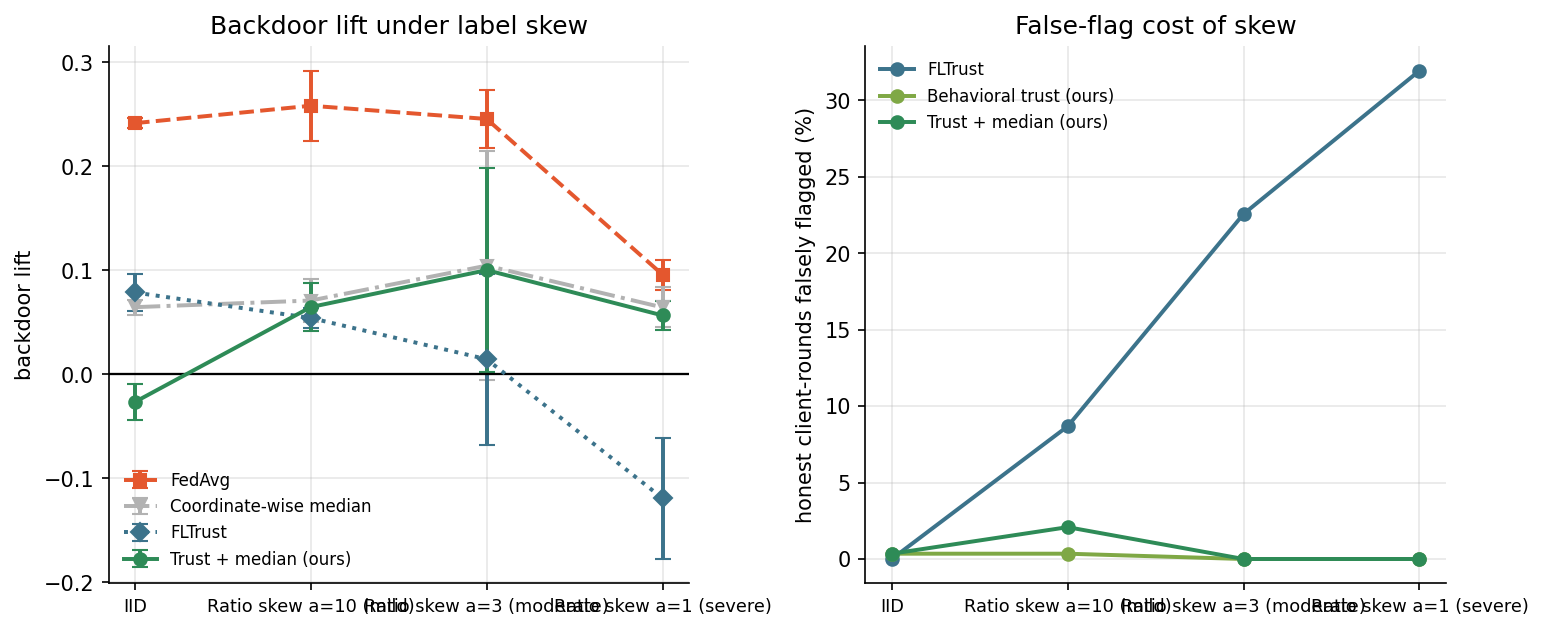
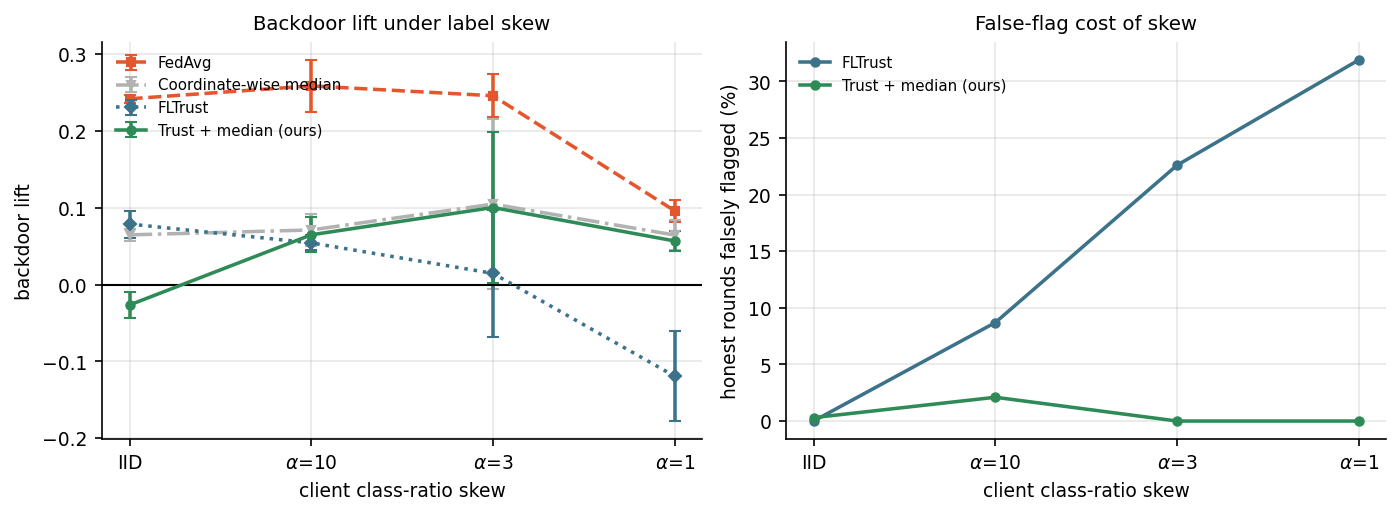
week12: fix two overflowing tables and cut the paper back from 16 pages
Compiled-PDF defects, both real:

- Table XV (cost) overflowed its column and printed rows on top of each
  other. The multicolumn scaling block was the cause. Scaling numbers are
  already in Fig. 10 and in the prose, so the table now carries only the
  headline two-row comparison.
- Table XIV (ceiling) was six numeric columns wide in a single-column
  float and spilled into the neighbouring column. Dropped the balanced
  accuracy column (still in the exported CSV) and shortened the model
  names.
- Fig. 4 (non-IID) and Fig. 9 (ceiling) had unreadable, overlapping
  x-axis labels. Both redrawn by replot.py, which rebuilds them from the
  exported CSVs rather than re-running the experiments, so the plotted
  values are provably identical to the tables.

Length: 10 figures and 15 tables down to 6 and 14. Nothing the review
asked for is removed; what went is redundancy.

- Dropped three figures whose own table already carries the same
  numbers: round-progression, trigger generalization, and the defense
  sensitivity sweep. Dropped the adaptive-attacker figure for the same
  reason.
- The dead-zone diagnosis table folds into two sentences of prose; the
  numbers remain in noniid_tau_diagnosis.csv.
- The non-IID table loses its clean-accuracy column and the alpha=1
  block, both of which the text already said were not used to rank
  rules. Both remain in the exported CSV.
- Tightened the two longest passages in the baseline comparison.
[…]

diff --git a/weeks/week12-paper/main.tex b/weeks/week12-paper/main.tex
@@ -402,28 +402,19 @@ Full vs.\ inflation    & $0.7142$ & $0.5546$ & $0.6114$ & $-0.0253$ \\
 \end{tabular}
 \end{table}
 
-\begin{figure}[!t]
-\centering
-\includegraphics[width=3.4in]{figures/fig_backdoor_and_trust_rounds.png}
-\caption{Backdoor progression and trust attribution over federated rounds (mean of 3 seeds, bands $\pm 1$ std). Left: backdoor success rate per case; the attacked runs stay pinned high while the defended run tracks the honest baseline from round three onward. Right: the aggregation trust assigned to the compromised clients ($U_9$, $U_{10}$) versus the honest clients; the coordinator separates the two groups within the first round and holds the compromised clients near zero trust thereafter.}
-\label{fig:rounds}
-\end{figure}
-
-Fig.~\ref{fig:rounds} shows the same result over training: the attacked runs hold the backdoor open round after round while the defended run tracks the honest baseline, and the mechanism is visible in the right panel, where the coordinator drives the compromised clients to near-zero trust within the first round.
-
 \subsection{Comparison With Published Baselines}
 \label{subsec:benchmark}
 An internal ablation shows which of our own layers contributes, but it cannot show that the result is worth having over an existing defense. Table~\ref{tab:benchmark} and Fig.~\ref{fig:baselines} therefore run every baseline the review asked for on the identical data split, attack, seeds and metrics: FedAvg, accuracy-weighted FedAvg, coordinate-wise median, trimmed mean, Krum, Multi-Krum, FLTrust~\cite{cao2021fltrust}, and both of our own variants. Nothing is quoted from another paper. Every row is one execution of one pipeline, so the comparison isolates the aggregation rule rather than the experimental setup, and the honest and attack rows reproduce their Table~\ref{tab:ablation} counterparts to within run-to-run variation.
 
 Three results matter, and the second is not favorable to us.
 
-\textit{The attack defeats the undefended and the naively weighted systems.} FedAvg leaves $+0.2415$ of lift and accuracy-weighted FedAvg $+0.3036$, confirming that weighting by a self-reported metric is worse than not weighting at all. Both also lose spoofing recall badly ($0.3641$ and $0.3524$ against an honest $0.5292$), because the poisoned updates degrade the detector as well as installing the backdoor.
+\textit{The attack defeats the undefended and the naively weighted systems.} FedAvg leaves $+0.2415$ of lift and accuracy-weighted FedAvg $+0.3036$: weighting by a self-reported metric is worse than not weighting at all. Both also lose spoofing recall badly ($0.3641$, $0.3524$ against an honest $0.5292$), because the poisoned updates degrade the detector as well as installing the backdoor.
 
-\textit{Multi-Krum is a genuinely competitive baseline under these conditions, and we do not claim otherwise.} It reaches $+0.0061 \pm 0.0041$ lift, which is statistically indistinguishable from our behavioral trust alone at $+0.0039 \pm 0.0047$, and it does so at $1.4$~ms of server time against our $38.0$~ms. Any claim that a behavioral probe is necessary to stop this attack in this setting would be contradicted by our own table. What the full defense adds over Multi-Krum is a nominal further reduction to $-0.0265$ and the best retained utility of any rule tested (recall $0.5560$, F1 $0.6087$, both above the honest baseline's $0.5292$ and $0.5944$), but at three seeds we do not claim that lift difference is resolved.
+\textit{Multi-Krum is a genuinely competitive baseline here, and we do not claim otherwise.} At $+0.0061 \pm 0.0041$ it is statistically indistinguishable from our behavioral trust alone ($+0.0039 \pm 0.0047$), at $1.4$~ms of server time against our $38.0$~ms. Any claim that a behavioral probe is \emph{necessary} to stop this attack in this setting would be contradicted by our own table. The full defense adds a nominal reduction to $-0.0265$ and the best retained utility of any rule tested (recall $0.5560$, F1 $0.6087$, both above the honest baseline), but at three seeds we do not claim that lift difference is resolved.
 
 The case for behavioral trust therefore does not rest on the IID headline number. It rests on three properties Table~\ref{tab:benchmark} makes visible. First, Krum and Multi-Krum must be told $f$, the number of compromised clients, and trimmed mean must be told how much to trim; a real coordinator does not know these. Section~\ref{subsec:fcount} varies the true attacker count against baselines configured for $f=2$ and shows what that assumption costs. Second, the geometric rules produce a selection, not a per-client judgment, so they cannot say \emph{which} aircraft to ground; our trust vector attributes the attack to $U_9$ and $U_{10}$ specifically. Third, Section~\ref{subsec:noniid} shows what happens to each rule when clients stop being identically distributed.
 
-\textit{FLTrust, the closest prior root-of-trust defense, does not close the attack here.} It removes about two-thirds of it ($+0.0787 \pm 0.0176$) but leaves a clear residual, and its clean accuracy ($0.6962$) and recall ($0.4687$) fall \emph{below} the honest no-attack baseline, because rescaling every update to the server update's norm throttles honest clients along with attackers. It is also the most expensive rule tested at $204.4$~ms per round, roughly five times ours, since it trains a server model on the root set every round. The mechanism behind its residual is visible in its trust: it assigns the compromised clients $0.0390$, about $39\%$ of uniform, and flags them in only $84.7\%$ of client-rounds. Only $40\%$ of each attacker's spoofed rows are poisoned, so most of its gradient is ordinary learning that agrees with the server's direction, and the backdoor occupies a small subspace of a $3{,}329$-parameter update. A cosine similarity taken over the whole parameter vector is a global statistic that a localized blind spot barely rotates. The behavioral probe does not measure direction at all: it measures what the model \emph{does} on the slice where a backdoored model must differ, and separates the groups completely (attacker trust $0.0001$, detection $100\%$).
+\textit{FLTrust, the closest prior root-of-trust defense, does not close the attack here.} It removes about two-thirds ($+0.0787 \pm 0.0176$) but leaves a clear residual, and its clean accuracy ($0.6962$) and recall ($0.4687$) fall \emph{below} the honest no-attack baseline, because rescaling every update to the server update's norm throttles honest clients along with attackers. It is also the most expensive rule tested, $204.4$~ms per round against our $38.6$, since it trains a server model every round. Its residual is explained by its own trust values: it assigns the compromised clients $0.0390$, about $39\%$ of uniform, and flags them in only $84.7\%$ of client-rounds. Only $40\%$ of each attacker's spoofed rows are poisoned, so most of its gradient is ordinary learning that agrees with the server's direction, and the backdoor occupies a small subspace of a $3{,}329$-parameter update; a cosine similarity over the whole vector is a global statistic that a localized blind spot barely rotates. The behavioral probe instead measures what the model \emph{does} on the slice where a backdoored model must differ, and separates the groups completely (attacker trust $0.0001$, detection $100\%$).
 
 \begin{table*}[!t]
 \renewcommand{\arraystretch}{1.25}
@@ -470,80 +461,48 @@ We therefore use the review's second suggested option, \emph{unequal benign/spoo
 
 \textit{The result.} Table~\ref{tab:noniid} and Fig.~\ref{fig:noniid} show that under IID data the trust layer separates the cohort completely: attacker trust $0.0001$, detection $100\%$. Under even mild skew it stops working. Attacker trust rises to $0.0942$ and then $0.1023$, which is uniform weight to three decimal places, and detection falls to $8.3\%$ and then $0\%$. Trust-only aggregation returns $+0.2374$ and $+0.2482$ of lift, statistically indistinguishable from undefended FedAvg's $+0.2583$ and $+0.2455$ under the same partitions. In other words, under label skew the behavioral probe contributes nothing.
 
-\textit{Why.} Suspicion is a deficit below the cohort median measured in cohort median-absolute-deviation units (Eq.~\ref{eq:susp}). Under IID the honest cohort is tight, $\mathrm{MAD}_f$ is small, and a backdoored client's deficit spans many MADs, easily clearing the dead-zone $\tau = 2$. Under skew, honest clients legitimately disagree on the probe slices, $\mathrm{MAD}_f$ inflates, and the same absolute deficit becomes a fraction of one MAD. The attacker hides inside the honest cohort's variance. Table~\ref{tab:tau} tests this directly by lowering $\tau$: detection is partially recovered, from $8.3\%$ to $38.9\%$ at $\alpha = 10$ and from $0\%$ to $15.3\%$ at $\alpha = 3$, which confirms the mechanism. But it is only partial, it never approaches the IID figure, and it costs $11.8\%$ and $7.6\%$ of honest client-rounds in false flags. Under IID the same change is pure loss: detection is already $100\%$ and the false-flag rate rises from $0.3\%$ to $6.3\%$. No single dead-zone is right for both regimes, and no dead-zone we tested restores the IID behavior under skew. The limitation is therefore in the robust scaling itself, not only in the choice of threshold.
+\textit{Why.} Suspicion is a deficit below the cohort median measured in cohort median-absolute-deviation units (Eq.~\ref{eq:susp}). Under IID the honest cohort is tight, $\mathrm{MAD}_f$ is small, and a backdoored client's deficit spans many MADs, easily clearing the dead-zone $\tau = 2$. Under skew, honest clients legitimately disagree on the probe slices, $\mathrm{MAD}_f$ inflates, and the same absolute deficit becomes a fraction of one MAD. The attacker hides inside the honest cohort's variance. Lowering the dead-zone tests this directly (\texttt{noniid\_tau\_diagnosis.csv}). Going from $\tau=2$ to $\tau=0.5$ recovers detection from $8.3\%$ to $38.9\%$ at $\alpha = 10$ and from $0\%$ to $15.3\%$ at $\alpha = 3$, confirming the mechanism. But the recovery is partial, never approaches the IID figure, and costs $11.8\%$ and $7.6\%$ of honest client-rounds in false flags. Under IID the same change is pure loss: detection is already $100\%$ and false flags rise from $0.3\%$ to $6.3\%$. No single dead-zone is right for both regimes, and no dead-zone we tested restores the IID behavior under skew. The limitation is therefore in the robust scaling itself, not only in the choice of threshold.
 
 \textit{What still works, and what that implies.} The full defense degrades far more gracefully than trust alone, to $+0.0647$ and $+0.1002$, but Table~\ref{tab:noniid} shows why: those figures track coordinate-wise median alone ($+0.0710$ and $+0.1046$) almost exactly. Under skew the median layer is carrying the defense. That is a direct, empirical answer to the review's third comment, and it is developed in Section~\ref{subsec:mediannec}. FLTrust degrades more gracefully on lift ($+0.0542$, $+0.0146$) but at a steep and rising cost in honest false flags ($8.7\%$, $22.6\%$, and $31.9\%$ at severe skew), which is the same failure mode from the opposite direction: it keeps reacting, but increasingly to the wrong clients.
 
-At the most severe level tested ($\alpha = 1$) the base detector has itself degraded to $0.232$ honest recall and $0.903$ honest BSR, so lift again has little headroom and we do not use that row to rank defenses. It is reported for completeness and because it marks where this federated configuration stops functioning at all, which is consistent with the ceiling study of Section~\ref{subsec:ceiling}.
+A fourth level ($\alpha = 1$) was also run and is in the artifact. There the base detector has itself degraded to $0.232$ honest recall and $0.903$ honest BSR, so lift again has little headroom and it cannot rank defenses; it marks where this federated configuration stops functioning at all, consistent with Section~\ref{subsec:ceiling}.
 
 \begin{table*}[!t]
 \renewcommand{\arraystretch}{1.2}
-\caption{Non-IID Sweep Over Client Class-Ratio Skew (mean $\pm$ std, $n=3$). Every Quantity the Review Requested Is Reported. Uniform Trust Is $0.100$. Rules Without a per-Client Weight Have No Detection or False-Flag Rate. The $\alpha=1$ Block Is Reported for Completeness but Not Used to Rank Rules, Because Its Honest Baseline Has Already Degraded to $0.232$ Recall.}
+\caption{Non-IID Sweep Over Client Class-Ratio Skew (mean $\pm$ std, $n=3$). Uniform Trust Is $0.100$. Rules Without a per-Client Weight Have No Detection or False-Flag Rate. Clean Accuracy, and the $\alpha=1$ Condition Whose Honest Baseline Has Already Degraded to $0.232$ Recall, Are in the Exported CSV.}
 \label{tab:noniid}
 \centering
 \footnotesize
 \setlength{\tabcolsep}{3.5pt}
-\begin{tabular}{@{}ll cccc cc cc@{}}
+\begin{tabular}{@{}ll ccc cc cc@{}}
 \toprule
-\textbf{Condition} & \textbf{Method} & \textbf{Clean} & \textbf{Recall} & \textbf{BSR} & \textbf{Lift} &
+\textbf{Condition} & \textbf{Method} & \textbf{Recall} & \textbf{BSR} & \textbf{Lift} &
 \textbf{Detect} & \textbf{False-Flag} & \textbf{Atk trust} & \textbf{Hon trust} \\
 \midrule
-IID & Honest FedAvg (no attack) & $0.7112$ & $0.5292$ & $0.6367$ & $+0.0000$ & --- & --- & --- & --- \\
-    & FedAvg (attacked)         & $0.6932$ & $0.3641$ & $0.8782$ & $+0.2415$ & --- & --- & --- & --- \\
-    & Coordinate-wise median    & $0.7101$ & $0.5008$ & $0.7013$ & $+0.0646$ & --- & --- & --- & --- \\
-    & FLTrust                   & $0.6962$ & $0.4687$ & $0.7154$ & $+0.0787$ & $84.7\%$ & $0.0\%$ & $0.0390$ & $0.1152$ \\
-    & Behavioral trust (ours)   & $0.7112$ & $0.5307$ & $0.6406$ & $+0.0039$ & $100\%$ & $0.3\%$ & $0.0001$ & $0.1250$ \\
-    & Trust + median (ours)     & $0.7143$ & $0.5560$ & $0.6101$ & $-0.0265$ & $100\%$ & $0.3\%$ & $0.0001$ & $0.1250$ \\
+IID & Honest FedAvg (no attack) & $0.5292$ & $0.6367$ & $+0.0000$ & --- & --- & --- & --- \\
+    & FedAvg (attacked)         & $0.3641$ & $0.8782$ & $+0.2415$ & --- & --- & --- & --- \\
+    & Coordinate-wise median    & $0.5008$ & $0.7013$ & $+0.0646$ & --- & --- & --- & --- \\
+    & FLTrust                   & $0.4687$ & $0.7154$ & $+0.0787$ & $84.7\%$ & $0.0\%$ & $0.0390$ & $0.1152$ \\
+    & Behavioral trust (ours)   & $0.5307$ & $0.6406$ & $+0.0039$ & $100\%$ & $0.3\%$ & $0.0001$ & $0.1250$ \\
+    & Trust + median (ours)     & $0.5560$ & $0.6101$ & $-0.0265$ & $100\%$ & $0.3\%$ & $0.0001$ & $0.1250$ \\
 \midrule
-Skew      & Honest FedAvg (no attack) & $0.6998$ & $0.4937$ & $0.6788$ & $+0.0000$ & --- & --- & --- & --- \\
-$\alpha{=}10$ & FedAvg (attacked)     & $0.6868$ & $0.3461$ & $0.9370$ & $+0.2583$ & --- & --- & --- & --- \\
-(mild)    & Coordinate-wise median    & $0.7035$ & $0.4487$ & $0.7498$ & $+0.0710$ & --- & --- & --- & --- \\
-          & FLTrust                   & $0.6919$ & $0.4639$ & $0.7329$ & $+0.0542$ & $65.3\%$ & $8.7\%$ & $0.0429$ & $0.1143$ \\
-          & Behavioral trust (ours)   & $0.6895$ & $0.3758$ & $0.9162$ & $+0.2374$ & $0.0\%$ & $0.3\%$ & $0.0950$ & $0.1013$ \\
-          & Trust + median (ours)     & $0.7035$ & $0.4555$ & $0.7435$ & $+0.0647$ & $8.3\%$  & $2.1\%$ & $0.0942$ & $0.1014$ \\
+Skew      & Honest FedAvg (no attack) & $0.4937$ & $0.6788$ & $+0.0000$ & --- & --- & --- & --- \\
+$\alpha{=}10$ & FedAvg (attacked)     & $0.3461$ & $0.9370$ & $+0.2583$ & --- & --- & --- & --- \\
+(mild)    & Coordinate-wise median    & $0.4487$ & $0.7498$ & $+0.0710$ & --- & --- & --- & --- \\
+          & FLTrust                   & $0.4639$ & $0.7329$ & $+0.0542$ & $65.3\%$ & $8.7\%$ & $0.0429$ & $0.1143$ \\
+          & Behavioral trust (ours)   & $0.3758$ & $0.9162$ & $+0.2374$ & $0.0\%$ & $0.3\%$ & $0.0950$ & $0.1013$ \\
+          & Trust + median (ours)     & $0.4555$ & $0.7435$ & $+0.0647$ & $8.3\%$  & $2.1\%$ & $0.0942$ & $0.1014$ \\
 \midrule
-Skew      & Honest FedAvg (no attack) & $0.6903$ & $0.4446$ & $0.7388$ & $+0.0000$ & --- & --- & --- & --- \\
-$\alpha{=}3$ & FedAvg (attacked)      & $0.6733$ & $0.2983$ & $0.9843$ & $+0.2455$ & --- & --- & --- & --- \\
-(moderate) & Coordinate-wise median   & $0.6897$ & $0.3609$ & $0.8434$ & $+0.1046$ & --- & --- & --- & --- \\
-          & FLTrust                   & $0.6880$ & $0.4468$ & $0.7534$ & $+0.0146$ & $59.7\%$ & $22.6\%$ & $0.0434$ & $0.1141$ \\
-          & Behavioral trust (ours)   & $0.6739$ & $0.2979$ & $0.9870$ & $+0.2482$ & $0.0\%$ & $0.0\%$ & $0.1025$ & $0.0994$ \\
-          & Trust + median (ours)     & $0.6897$ & $0.3618$ & $0.8390$ & $+0.1002$ & $0.0\%$ & $0.0\%$ & $0.1023$ & $0.0994$ \\
-\midrule
-Skew      & Honest FedAvg (no attack) & $0.6473$ & $0.2320$ & $0.9027$ & $+0.0000$ & --- & --- & --- & --- \\
-$\alpha{=}1$ & FedAvg (attacked)      & $0.6354$ & $0.1195$ & $0.9986$ & $+0.0959$ & --- & --- & --- & --- \\
-(severe,  & Coordinate-wise median    & $0.6455$ & $0.1428$ & $0.9671$ & $+0.0644$ & --- & --- & --- & --- \\
-baseline  & FLTrust                   & $0.6635$ & $0.4325$ & $0.7836$ & $-0.1191$ & $66.7\%$ & $31.9\%$ & $0.0401$ & $0.1150$ \\
-degraded) & Behavioral trust (ours)   & $0.6389$ & $0.1256$ & $0.9980$ & $+0.0953$ & $0.0\%$ & $0.0\%$ & $0.1054$ & $0.0987$ \\
-          & Trust + median (ours)     & $0.6495$ & $0.1580$ & $0.9594$ & $+0.0567$ & $0.0\%$ & $0.0\%$ & $0.1060$ & $0.0985$ \\
+Skew      & Honest FedAvg (no attack) & $0.4446$ & $0.7388$ & $+0.0000$ & --- & --- & --- & --- \\
+$\alpha{=}3$ & FedAvg (attacked)      & $0.2983$ & $0.9843$ & $+0.2455$ & --- & --- & --- & --- \\
+(moderate) & Coordinate-wise median   & $0.3609$ & $0.8434$ & $+0.1046$ & --- & --- & --- & --- \\
+          & FLTrust                   & $0.4468$ & $0.7534$ & $+0.0146$ & $59.7\%$ & $22.6\%$ & $0.0434$ & $0.1141$ \\
+          & Behavioral trust (ours)   & $0.2979$ & $0.9870$ & $+0.2482$ & $0.0\%$ & $0.0\%$ & $0.1025$ & $0.0994$ \\
+          & Trust + median (ours)     & $0.3618$ & $0.8390$ & $+0.1002$ & $0.0\%$ & $0.0\%$ & $0.1023$ & $0.0994$ \\
+
 \bottomrule
 \end{tabular}
 \end{table*}
-
-\begin{table}[!t]
-\renewcommand{\arraystretch}{1.2}
-\caption{Dead-Zone Sweep Under Skew (mean $\pm$ std, $n=3$), Testing Whether the Trust Failure Is a Threshold Choice. Lowering $\tau$ Partially Recovers Detection, Confirming the Mechanism, but Never Approaches the IID Figure and Costs Honest False Flags. Under IID the Same Change Is Pure Loss.}
-\label{tab:tau}
-\centering
-\footnotesize
-\setlength{\tabcolsep}{4pt}
-\begin{tabular}{@{}ll ccc@{}}
-\toprule
-\textbf{Condition} & \textbf{$\tau$} & \textbf{Lift} & \textbf{Attacker detect} & \textbf{Honest false-flag} \\
-\midrule
-IID              & $0.5$ & $-0.0122$ & $100\%$   & $6.3\%$  \\
-                 & $1.0$ & $-0.0212$ & $100\%$   & $4.9\%$  \\
-                 & $2.0$ & $-0.0265$ & $100\%$   & $0.3\%$  \\
-\midrule
-Skew $\alpha{=}10$ & $0.5$ & $+0.0457$ & $38.9\%$ & $11.8\%$ \\
-                 & $1.0$ & $+0.0470$ & $26.4\%$ & $6.9\%$  \\
-                 & $2.0$ & $+0.0647$ & $8.3\%$  & $2.1\%$  \\
-\midrule
-Skew $\alpha{=}3$ & $0.5$ & $+0.0851$ & $15.3\%$ & $7.6\%$  \\
-                 & $1.0$ & $+0.0902$ & $1.4\%$  & $1.7\%$  \\
-                 & $2.0$ & $+0.1002$ & $0.0\%$  & $0.0\%$  \\
-\bottomrule
-\end{tabular}
-\end{table}
 
 \begin{figure}[!t]
 \centering
@@ -623,7 +582,7 @@ FLTrust                  & $+0.0626$ & $+0.0787$ & $+0.0919$ & $+0.1059$ \\
 
 \subsection{Trigger Generalization}
 \label{subsec:trigger}
-Table~\ref{tab:trigger} and Fig.~\ref{fig:trigger} test whether the defense depends on knowing the trigger feature. One fixed D2 configuration is run against every trigger setting; nothing is retuned. Table~\ref{tab:trigger} reports the four settings measured with the full metric set, and two further features are summarized in the text below. The attack carries a viable backdoor in every setting (lift $+0.09$ to $+0.25$), and the defense drives lift below zero in all four, including PD, the weakest probed feature (Cohen's $d = 0.152$), and a mixed CN0+TCD trigger that was never used to design the defense. Honest false positives stay between $0.3\%$ and $0.7\%$ throughout. Because the coordinator probes every discriminative feature, moving the trigger only changes which probe slice exposes the compromised client. Two further single-feature triggers were swept at the identical configuration as part of the same study and are reported here for completeness: DO (Cohen's $d = 0.306$) and LC ($d = 0.2448$), whose undefended lifts of $+0.2987$ and $+0.3970$ fall to $-0.0470$ and $-0.0056$ under the defense. Across all five single-feature triggers and the mixed trigger, the defended lift is negative in every case, though LC is the narrowest margin ($-0.0056 \pm 0.0068$) and is better read as the attacker gaining nothing than as a reduction below baseline. This supports the claim that the defense is trigger-agnostic within the discriminative feature set; features with near-zero class separation (Cohen's $d < 0.05$, namely PQP and PIP) are outside the probe set by design and are not claimed.
+Table~\ref{tab:trigger} tests whether the defense depends on knowing the trigger feature. One fixed D2 configuration is run against every trigger setting; nothing is retuned. Table~\ref{tab:trigger} reports the four settings measured with the full metric set, and two further features are summarized in the text below. The attack carries a viable backdoor in every setting (lift $+0.09$ to $+0.25$), and the defense drives lift below zero in all four, including PD, the weakest probed feature (Cohen's $d = 0.152$), and a mixed CN0+TCD trigger that was never used to design the defense. Honest false positives stay between $0.3\%$ and $0.7\%$ throughout. Because the coordinator probes every discriminative feature, moving the trigger only changes which probe slice exposes the compromised client. Two further single-feature triggers were swept at the identical configuration as part of the same study and are reported here for completeness: DO (Cohen's $d = 0.306$) and LC ($d = 0.2448$), whose undefended lifts of $+0.2987$ and $+0.3970$ fall to $-0.0470$ and $-0.0056$ under the defense. Across all five single-feature triggers and the mixed trigger, the defended lift is negative in every case, though LC is the narrowest margin ($-0.0056 \pm 0.0068$) and is better read as the attacker gaining nothing than as a reduction below baseline. This supports the claim that the defense is trigger-agnostic within the discriminative feature set; features with near-zero class separation (Cohen's $d < 0.05$, namely PQP and PIP) are outside the probe set by design and are not claimed.
 
 \begin{table}[!t]
 \renewcommand{\arraystretch}{1.25}
@@ -644,16 +603,9 @@ CN0+TCD    & ---   & $0.9816$ & $+0.1933$ & $-0.0282$ & $0.7\%$ \\
 \end{tabular}
 \end{table}
 
-\begin{figure}[!t]
-\centering
-\includegraphics[width=3.2in]{figures/fig_trigger_generalization.png}
-\caption{Backdoor lift before (orange) and after (green) the defense, per trigger setting. Each connector spans one trigger's undefended and defended lift, so its length is the backdoor the defense removes; markers are means over three seeds and whiskers are $\pm 1$ std. One fixed D2 configuration; the black line at zero marks ``the attacker gains nothing.''}
-\label{fig:trigger}
-\end{figure}
-
 \subsection{Adaptive Attacker}
 \label{subsec:adaptive}
-The strongest objection to a trust defense is a defense-aware attacker. In Fig.~\ref{fig:adaptive} and Table~\ref{tab:adaptive}, each compromised client adds an evasion term of strength $\lambda$ to its local objective, training to keep predicting spoofed on probe-style slices so it looks like the honest cohort. As $\lambda$ increases, the attacker's trust does rise from $0.0001$ toward uniform ($0.083$ at $\lambda=2$), so it genuinely evades detection better, but its backdoor lift collapses even with no defense, from $+0.2457$ at $\lambda=0$ to $-0.48$ at $\lambda=10$. The reason is structural: the CN0 backdoor requires the model to call CN0-benign-high inputs authentic, while the CN0 probe rewards calling those same inputs spoofed. Evading the probe and keeping the backdoor are directly opposed objectives, so training for one destroys the other. There is no evasion strength at which the attacker both hides from the trust score and retains a working backdoor, and the defended lift stays negative at every $\lambda$.
+The strongest objection to a trust defense is a defense-aware attacker. In Table~\ref{tab:adaptive}, each compromised client adds an evasion term of strength $\lambda$ to its local objective, training to keep predicting spoofed on probe-style slices so it looks like the honest cohort. As $\lambda$ increases, the attacker's trust does rise from $0.0001$ toward uniform ($0.083$ at $\lambda=2$), so it genuinely evades detection better, but its backdoor lift collapses even with no defense, from $+0.2457$ at $\lambda=0$ to $-0.48$ at $\lambda=10$. The reason is structural: the CN0 backdoor requires the model to call CN0-benign-high inputs authentic, while the CN0 probe rewards calling those same inputs spoofed. Evading the probe and keeping the backdoor are directly opposed objectives, so training for one destroys the other. There is no evasion strength at which the attacker both hides from the trust score and retains a working backdoor, and the defended lift stays negative at every $\lambda$.
 
 \begin{table}[!t]
 \renewcommand{\arraystretch}{1.25}
@@ -672,19 +624,11 @@ The strongest objection to a trust defense is a defense-aware attacker. In Fig.~
 \end{tabular}
 \end{table}
 
-\begin{figure}[!t]
-\centering
-\includegraphics[width=3.2in]{figures/fig_adaptive_attacker.png}
-\caption{Adaptive attacker. Undefended backdoor lift (orange, dashed) and defended backdoor lift (green) on the left axis, with mean attacker trust (purple, dotted) on the right, versus evasion strength $\lambda$; mean of three seeds with $\pm 1$ std. As $\lambda$ grows the attacker's trust climbs toward uniform, so it does evade the probe more successfully, but its undefended backdoor collapses from $+0.2457$ to $-0.48$ over the same range: the two objectives are opposed. Defended lift stays negative throughout.}
-\label{fig:adaptive}
-\end{figure}
-
 \subsection{Defense-Side Sensitivity}
 \label{subsec:sensitivity}
 A defense with three hyperparameters invites the question of how much of its
-performance depends on tuning them. Table~\ref{tab:sensitivity} and
-Fig.~\ref{fig:sensitivity} sweep each one across three seeds while holding the
-other two at D2.
+performance depends on tuning them. Table~\ref{tab:sensitivity} sweeps each one across three seeds while holding
+the other two at D2.
 
 The gate sharpness $\beta$ is the parameter one would expect to matter most,
 since it sets how hard a suspicious client is penalized. Across a sixteen-fold
@@ -747,13 +691,6 @@ $\rho = 0.9$ & $-0.0218$ & $0.0201$ & 2.8\% \\
 \end{tabular}
 \end{table}
 
-\begin{figure}[!t]
-\centering
-\includegraphics[width=3.45in]{figures/fig_defense_sensitivity.png}
-\caption{Defense-side sensitivity. Backdoor lift (green, left axis, $\pm 1$ std band over three seeds) and honest false-positive rate (purple, right axis) against each defense hyperparameter, with the other two held at D2. The black line at zero marks ``the attacker gains nothing''; the undefended attack sits at $+0.246$, far above the plotted range, and is annotated rather than drawn.}
-\label{fig:sensitivity}
-\end{figure}
-
 \subsection{False Positives and Attribution}
 \label{subsec:fp}
 Treating the trust mechanism as a detector of compromised clients over $3$ seeds $\times$ $12$ rounds $\times$ $10$ clients, both compromised clients are flagged in $72$ of $72$ client-rounds ($100\%$ true-positive rate) with mean trust $0.000$, while honest clients are flagged in $1$ of $288$ client-rounds ($0.3\%$ false-positive rate) and no honest client is ever driven to zero trust. Mean honest trust sits in a tight band from $0.119$ to $0.131$ around the uniform value of $0.100$. The mechanism therefore not only removes the backdoor but attributes it to the exact compromised UAVs, which is operationally useful for response.
@@ -792,23 +729,23 @@ it; establishing that is the most concrete piece of future work this paper leave
 
 \begin{table}[!t]
 \renewcommand{\arraystretch}{1.25}
-\caption{Centralized Detector Ceiling. All Rows Are Trained on the Full Client Pool With No Federation, No Attack and No Privacy Constraint, so They Upper-Bound What the Federated System Could Reach. The Final Row Is the Paper's Federated Baseline.}
+\caption{Centralized Detector Ceiling. All Rows Are Trained on the Full Client Pool With No Federation, No Attack and No Privacy Constraint, so They Upper-Bound What the Federated System Could Reach. Balanced Accuracy and Confusion Counts Are in the Exported CSV.}
 \label{tab:ceiling}
 \centering
 \footnotesize
 \setlength{\tabcolsep}{3.5pt}
-\begin{tabular}{@{}l ccccc@{}}
+\begin{tabular}{@{}l cccc@{}}
 \toprule
-\textbf{Model} & \textbf{Clean} & \textbf{Recall} & \textbf{F1} & \textbf{Bal.\ Acc} & \textbf{BSR} \\
+\textbf{Model} & \textbf{Clean} & \textbf{Recall} & \textbf{F1} & \textbf{BSR} \\
 \midrule
-Logistic regression                & $0.6094$ & $0.2241$ & $0.3146$ & $0.5452$ & $0.9394$ \\
-MLP $64\text{-}32\text{-}16$ (paper model) & $0.8728$ & $0.9073$ & $0.8509$ & $0.8786$ & $0.3779$ \\
-MLP $256\text{-}128\text{-}64$     & $0.9192$ & $0.9506$ & $0.9040$ & $0.9244$ & $0.3488$ \\
-MLP $512\text{-}256\text{-}128\text{-}64$ & $0.9245$ & $0.9742$ & $0.9117$ & $0.9328$ & $0.3331$ \\
-Random forest (400 trees)          & $0.9503$ & $0.9595$ & $0.9392$ & $0.9519$ & $0.1037$ \\
-Histogram gradient boosting        & $\mathbf{0.9615}$ & $\mathbf{0.9929}$ & $\mathbf{0.9538}$ & $\mathbf{0.9667}$ & $0.1213$ \\
+Logistic regression        & $0.6094$ & $0.2241$ & $0.3146$ & $0.9394$ \\
+MLP 64-32-16 (paper model) & $0.8728$ & $0.9073$ & $0.8509$ & $0.3779$ \\
+MLP 256-128-64             & $0.9192$ & $0.9506$ & $0.9040$ & $0.3488$ \\
+MLP 512-256-128-64         & $0.9245$ & $0.9742$ & $0.9117$ & $0.3331$ \\
+Random forest (400 trees)  & $0.9503$ & $0.9595$ & $0.9392$ & $0.1037$ \\
+Gradient boosting          & $\mathbf{0.9615}$ & $\mathbf{0.9929}$ & $\mathbf{0.9538}$ & $0.1213$ \\
 \midrule
-\textit{Federated honest FedAvg (paper baseline)} & $0.7112$ & $0.5292$ & $0.5944$ & $0.6809$ & $0.6367$ \\
+\textit{Federated honest FedAvg} & $0.7112$ & $0.5292$ & $0.5944$ & $0.6367$ \\
 \bottomrule
 \end{tabular}
 \end{table}
@@ -852,15 +789,10 @@ subsample or batched across rounds; we have not tested either, and make no claim
 \setlength{\tabcolsep}{4pt}
 \begin{tabular}{@{}l ccc@{}}
 \toprule
-\textbf{Defense} & \textbf{Server ms/round} & \textbf{\% of sequential} & \textbf{\% of parallel} \\
+\textbf{Defense} & \textbf{ms/round} & \textbf{\% sequential} & \textbf{\% parallel} \\
 \midrule
-Behavioral trust $+$ median (ours) & $34.0$  & $0.98\%$ & $3.40\%$  \\
-FLTrust \cite{cao2021fltrust}      & $168.3$ & $4.88\%$ & $16.86\%$ \\
-\midrule
-\multicolumn{4}{@{}l}{\textit{Scaling of our server cost (ms/round, and \% of a parallel round)}} \\
-Clients $5 \to 40$        & $19.3 \to 139.1$ & --- & $5.6\% \to 34.9\%$ \\
-Probe features $2 \to 8$  & $13.2 \to 35.6$  & --- & $3.5\% \to 9.9\%$  \\
-Root rows $600 \to 6{,}000$ & $25.5 \to 37.1$ & --- & $6.2\% \to 10.3\%$ \\
+Trust $+$ median (ours)       & $34.0$  & $0.98\%$ & $3.40\%$  \\
+FLTrust \cite{cao2021fltrust} & $168.3$ & $4.88\%$ & $16.86\%$ \\
 \bottomrule
 \end{tabular}
 \end{table}

diff --git a/weeks/week12-paper/replot.py b/weeks/week12-paper/replot.py
@@ -1,0 +1,108 @@
+# -*- coding: utf-8 -*-
+"""
+Redraw the two figures whose axis labels collided in the compiled PDF.
+
+Both are rebuilt from the exported CSVs rather than by re-running the
+experiments, so the plotted values are guaranteed identical to the tables and
+this costs seconds instead of an hour.
+
+Run from this folder:  python replot.py
+Rewrites: results/fig_noniid.png, results/fig_detector_ceiling.png
+"""
+import re
+import numpy as np
+import pandas as pd
+import matplotlib.pyplot as plt
+
+import fl_common as F
+
+plt.rcParams.update({'figure.dpi': 130, 'savefig.dpi': 150, 'font.size': 9,
+                     'axes.grid': True, 'grid.alpha': 0.3, 'axes.spines.top': False,
+                     'axes.spines.right': False, 'legend.frameon': False})
+
+
+def val(s):
+    """'0.1234 +/- 0.0056' -> (0.1234, 0.0056); '12.3%' -> (12.3, 0)."""
+    s = str(s).strip()
+    if s in ('---', 'nan', ''):
+        return (np.nan, 0.0)
+    if s.endswith('%'):
+        return (float(s[:-1]), 0.0)
+    p = s.split('+/-')
+    return (float(p[0]), float(p[1]) if len(p) > 1 else 0.0)
+
+
+# ------------------------------------------------------------------ non-IID
+d = pd.read_csv(F.RESULTS / 'noniid_dirichlet.csv')
+# short axis labels; the long names collided badly in the compiled figure
+SHORT = {'IID': 'IID', 'Ratio skew a=10 (mild)': r'$\alpha$=10',
+         'Ratio skew a=3 (moderate)': r'$\alpha$=3',
+         'Ratio skew a=1 (severe)': r'$\alpha$=1'}
+conds = [c for c in d['Condition'].unique()]
+xs = np.arange(len(conds))
+series = [('FedAvg', '#E4572E', '--', 's'),
+          ('Coordinate-wise median', '#B2B2B2', '-.', 'v'),
+          ('FLTrust', '#3C738B', ':', 'D'),
+          ('Trust + median (ours)', 'seagreen', '-', 'o')]
+
+fig, (ax1, ax2) = plt.subplots(1, 2, figsize=(9.4, 3.5))
+for name, col, ls, mk in series:
+    m, e = [], []
+    for c in conds:
+        row = d[(d['Condition'] == c) & (d['Method'] == name)].iloc[0]
+        a, b = val(row['Backdoor Lift']); m.append(a); e.append(b)
+    ax1.errorbar(xs, m, yerr=e, color=col, ls=ls, marker=mk, lw=1.7, ms=4,
+                 capsize=3, label=name.replace(' (ours)', ' (ours)'))
+ax1.axhline(0, color='black', lw=1.0)
+ax1.set_xticks(xs); ax1.set_xticklabels([SHORT[c] for c in conds])
+ax1.set_xlabel('client class-ratio skew')
+ax1.set_ylabel('backdoor lift')
+ax1.set_title('Backdoor lift under label skew', fontsize=9.5)
+ax1.legend(fontsize=7.2, loc='upper left')
+
+for name, col in (('FLTrust', '#3C738B'), ('Trust + median (ours)', 'seagreen')):
+    m = []
+    for c in conds:
+        row = d[(d['Condition'] == c) & (d['Method'] == name)].iloc[0]
+        m.append(val(row['Honest False-Flag'])[0])
+    ax2.plot(xs, m, marker='o', lw=1.7, ms=4, color=col, label=name)
+ax2.set_xticks(xs); ax2.set_xticklabels([SHORT[c] for c in conds])
+ax2.set_xlabel('client class-ratio skew')
+ax2.set_ylabel('honest rounds falsely flagged (%)')
+ax2.set_title('False-flag cost of skew', fontsize=9.5)
+ax2.legend(fontsize=7.2, loc='upper left')
+plt.tight_layout()
+plt.savefig(F.RESULTS / 'fig_noniid.png', bbox_inches='tight')
+print('rewrote results/fig_noniid.png')
+
+# ------------------------------------------------------------------ ceiling
+c = pd.read_csv(F.RESULTS / 'detector_ceiling.csv')
+SHORT_M = {
+    'Logistic regression': 'Logistic\nregression',
+    'MLP 64-32-16 (paper model)': 'MLP\n64-32-16',
+    'MLP 256-128-64 (wider)': 'MLP\n256-128-64',
+    'MLP 512-256-128-64 (deeper)': 'MLP\n512-...-64',
+    'Random forest (400 trees)': 'Random\nforest',
+    'Hist gradient boosting': 'Gradient\nboosting',
+    'Federated honest FedAvg (paper baseline)': 'Federated\n(ours)',
+}
+names = [SHORT_M.get(m, m) for m in c['Model']]
+rec = c['Spoofing Recall'].astype(float).values
+f1 = c['F1'].astype(float).values
+xs = np.arange(len(names))
+# CSV order is: 3 MLPs, logistic regression, random forest, boosting, federated
+cols = ['#B599CE'] * 3 + ['#B2B2B2'] * 3 + ['seagreen']
+fig, ax = plt.subplots(figsize=(8.6, 3.4))
+ax.bar(xs - 0.19, rec, 0.38, color=cols, label='spoofing recall')
+ax.bar(xs + 0.19, f1, 0.38, color=cols, alpha=.5, label='F1')
+ax.axhline(rec[-1], color='seagreen', ls=':', lw=1.3)
+ax.annotate(f'federated baseline recall ({rec[-1]:.3f})', (len(names) - 0.55, rec[-1]),
+            ha='right', va='bottom', fontsize=7.5, color='seagreen')
+ax.set_xticks(xs); ax.set_xticklabels(names, fontsize=7.5)
+ax.set_ylabel('score on held-out test set')
+ax.set_ylim(0, 1.08)
+ax.set_title("No centralized model is limited by the feature set's separability", fontsize=9.5)
+ax.legend(fontsize=8, ncol=2, loc='upper left')
+plt.tight_layout()
+plt.savefig(F.RESULTS / 'fig_detector_ceiling.png', bbox_inches='tight')
+print('rewrote results/fig_detector_ceiling.png')
